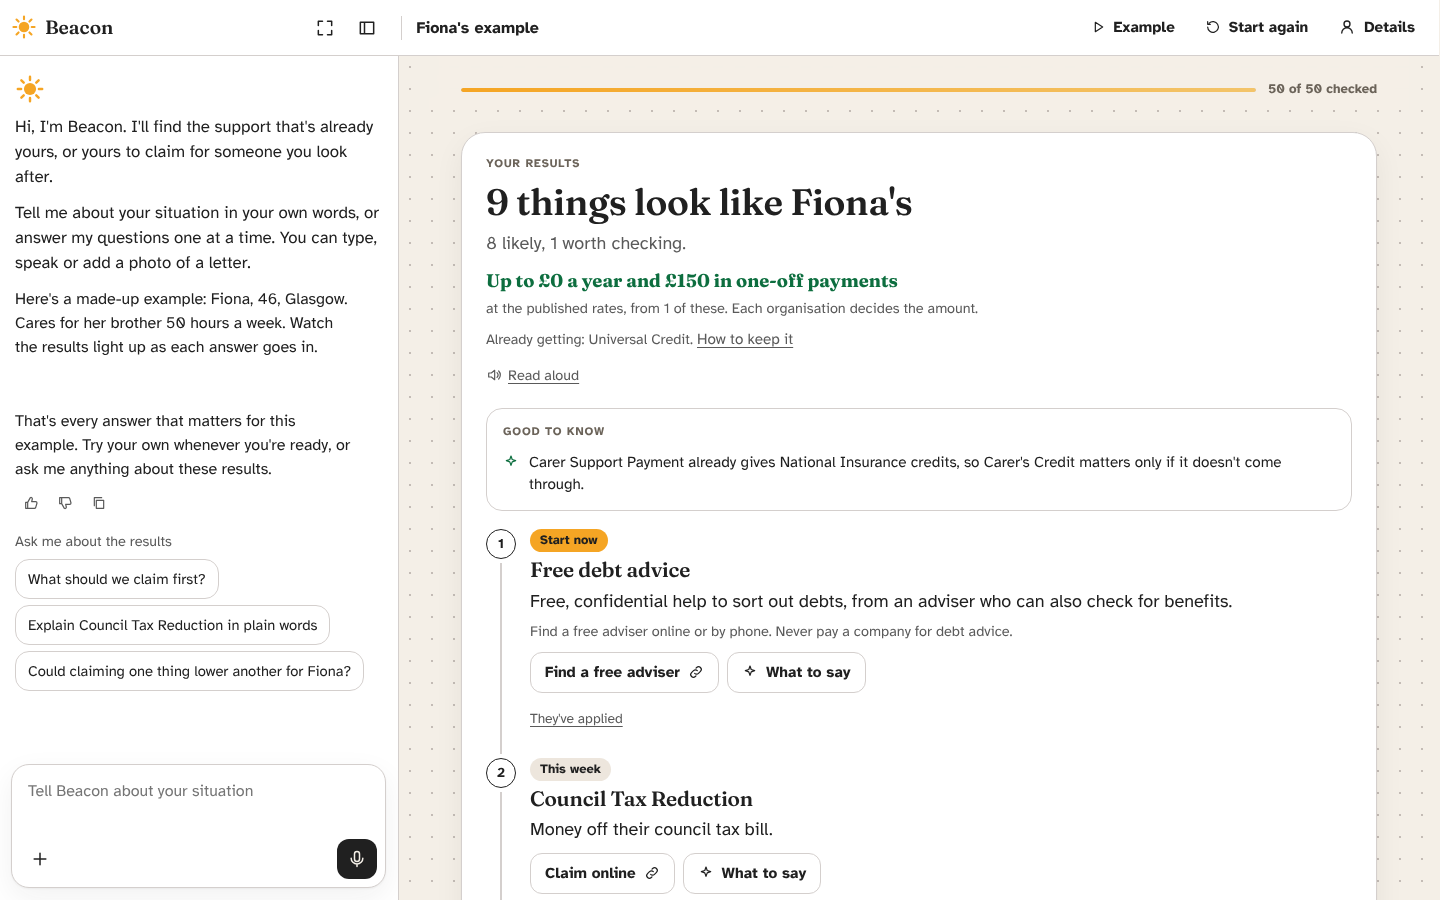
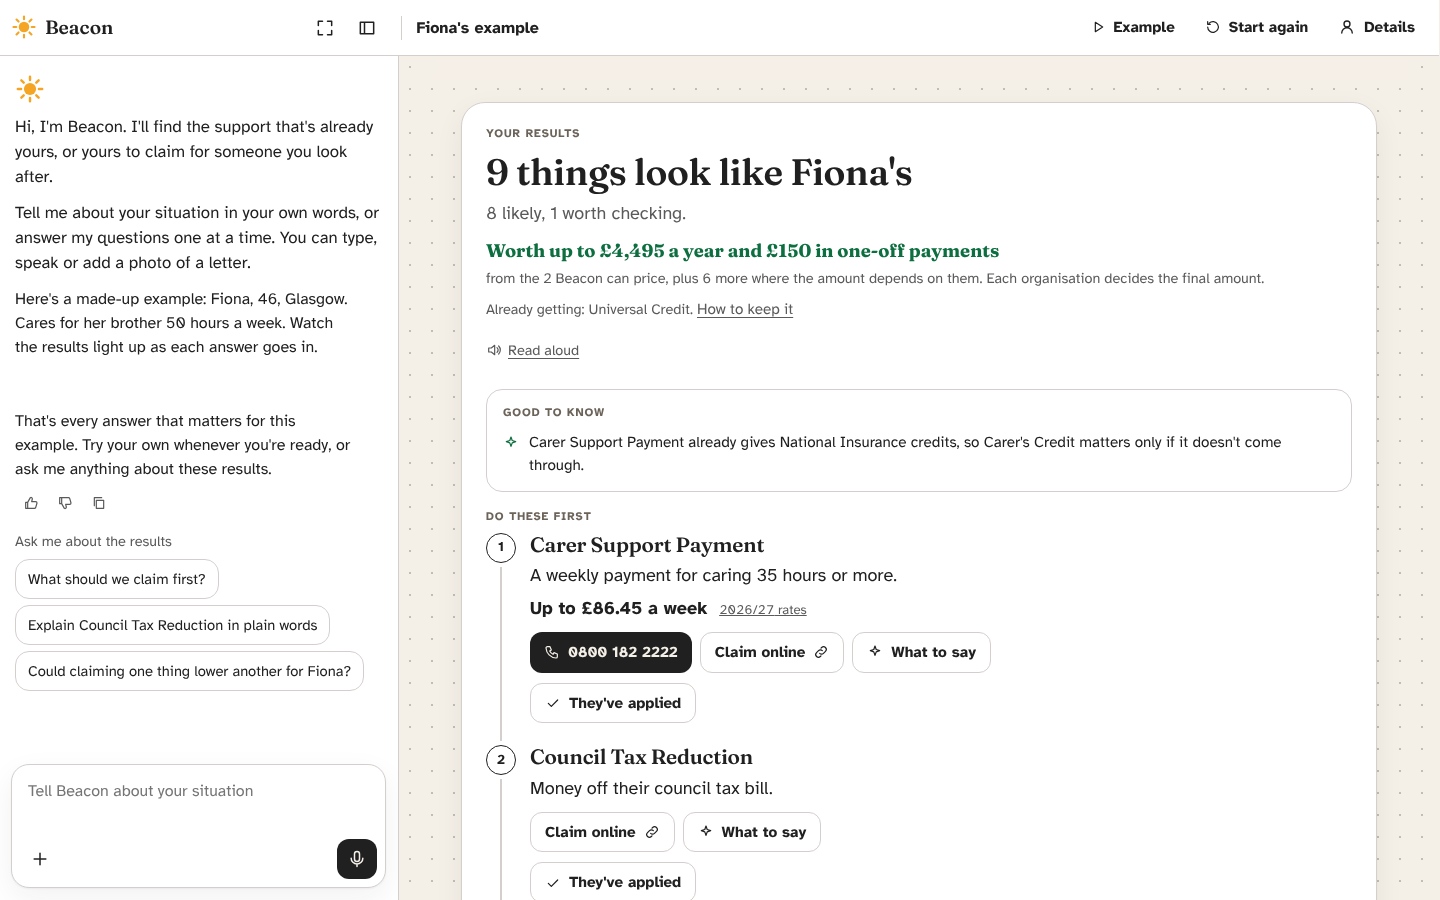
fix(meta): best-paying claims lead the plan; unique chat message ids
Do these first now ranks gateway and urgent claims, then likely claims by
their published value, with advice and registers only when nothing else
applies. Chat messages use random ids, so a reload during development can't
produce duplicate keys.

Changed region(s): [[0.3125, 0.0933, 0.9688, 0.9956]]

diff --git a/apps/meta/src/components/results/Results.tsx b/apps/meta/src/components/results/Results.tsx
@@ -19,6 +19,7 @@ import {
   type Status,
   timingFor,
   warnings,
+  worthFor,
   worthLabel,
   worthTotals,
 } from "@/engine/rules";
@@ -71,20 +72,31 @@ export function Results() {
     const s = byId[id];
     return s ? isAuto(s, nationIn(answers)) : false;
   };
-  const firstIds = new Set(
-    (order.some((p) => p.when === "Start now")
-      ? order.filter((p) => p.when === "Start now")
-      : order.filter((p) => p.status === "likely" && !autoHere(p.id))
-    )
-      .slice(0, 3)
-      .map((p) => p.id),
+  // First: gateway and time-sensitive claims, then the best-paying likely claims; advice and
+  // registers come first only when there's nothing to claim.
+  const value = (id: string) => {
+    const s = byId[id];
+    const w = s ? worthFor(s, answers) : null;
+    return w ? w.max * { week: 52, month: 12, year: 1, once: 1 }[w.per] : 0;
+  };
+  const claimable = order.filter(
+    (p) => p.status === "likely" && !autoHere(p.id),
   );
+  const isClaim = (id: string) => !byId[id]?.act;
+  const ranked = [
+    ...claimable.filter((p) => p.when === "Start now" && isClaim(p.id)),
+    ...claimable
+      .filter((p) => p.when !== "Start now" && isClaim(p.id))
+      .sort((a, b) => value(b.id) - value(a.id)),
+    ...claimable.filter((p) => !isClaim(p.id)),
+  ];
+  const firstIds = new Set(ranked.slice(0, 3).map((p) => p.id));
   const rest = order.filter((p) => !firstIds.has(p.id));
   const groups = [
     {
       title: "Do these first",
       fold: false,
-      steps: order.filter((p) => firstIds.has(p.id)),
+      steps: ranked.slice(0, 3),
     },
     {
       title: "Then",

diff --git a/apps/meta/src/components/chat/ChatPanel.tsx b/apps/meta/src/components/chat/ChatPanel.tsx
@@ -24,7 +24,7 @@ import { Composer } from "./Composer";
 import { LetterCard } from "./LetterCard";
 
 export interface Msg {
-  id: number;
+  id: string;
   role: "user" | "bot";
   text: string;
   notes?: string[];
@@ -67,11 +67,8 @@ const ERRORS: Record<string, string> = {
 export const errorText = (code?: string) =>
   ERRORS[code ?? "model"] ?? ERRORS.model;
 
-let seq = 0;
-const nextId = () => {
-  seq += 1;
-  return seq;
-};
+// Random ids stay unique even when the module reloads while messages are on screen.
+const nextId = () => crypto.randomUUID();
 
 export function ChatPanel({ playing = false }: { playing?: boolean }) {
   const {
